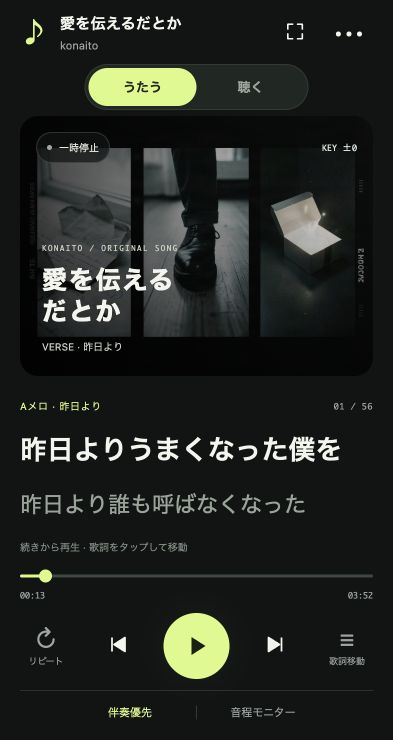
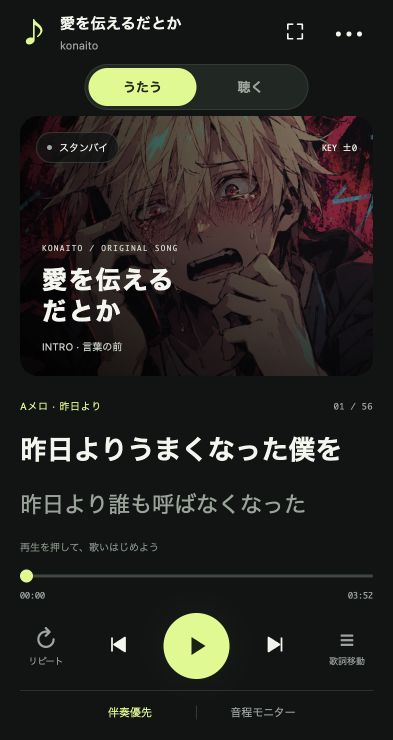
fix: 正式なジャケット画像へ差し替え

diff --git a/index.html b/index.html
@@ -13,10 +13,10 @@
       content="愛を伝えるだとか — konaito / one-song karaoke and music player"
     />
     <link rel="manifest" href="./manifest.webmanifest" />
-    <link rel="icon" href="./cover.jpeg" type="image/jpeg" />
+    <link rel="icon" href="./cover.png" type="image/png" />
     <meta name="mobile-web-app-capable" content="yes" />
     <meta name="apple-mobile-web-app-capable" content="yes" />
-    <link rel="stylesheet" href="./styles.css?v=19.1" />
+    <link rel="stylesheet" href="./styles.css?v=19.2" />
     <title>愛を伝えるだとか / KARAOKE</title>
   </head>
   <body>
@@ -69,7 +69,7 @@
         <div class="art-stage">
           <img
             class="cover-art"
-            src="./cover.jpeg"
+            src="./cover.png"
             alt="愛を伝えるだとか ジャケット"
           />
           <div class="art-shade"></div>
@@ -353,7 +353,7 @@
         >
           アプリを追加
         </button>
-        <p class="app-version">STAGE / v19.1</p>
+        <p class="app-version">STAGE / v19.2</p>
         <p class="drawer-status" id="wasm-status">
           <span class="status-dot"></span> WASM 音声処理 準備完了
         </p>
@@ -367,6 +367,6 @@
     </aside>
 
     <div class="toast" id="toast" role="status" aria-live="polite"></div>
-    <script type="module" src="./app.js?v=19.1"></script>
+    <script type="module" src="./app.js?v=19.2"></script>
   </body>
 </html>

diff --git a/sw.js b/sw.js
@@ -1,13 +1,13 @@
-const CACHE_NAME = "ai-karaoke-v19.1";
+const CACHE_NAME = "ai-karaoke-v19.2";
 const ASSETS = [
   "./",
   "./index.html",
-  "./styles.css?v=19.1",
-  "./app.js?v=19.1",
+  "./styles.css?v=19.2",
+  "./app.js?v=19.2",
   "./song-data.js",
   "./alignment.json",
   "./manifest.webmanifest",
-  "./cover.jpeg",
+  "./cover.png",
   "./dsp.wasm",
   "./audio/track.mp3"
 ];

diff --git a/app.js b/app.js
@@ -575,7 +575,7 @@ function setupMediaSession() {
     title: SONG.title,
     artist: SONG.artist,
     album: "konaito",
-    artwork: [{ src: "./cover.jpeg", sizes: "1024x1024", type: "image/jpeg" }],
+    artwork: [{ src: "./cover.png", sizes: "1254x1254", type: "image/png" }],
   });
   const handlers = {
     play: () => { if (!isPlaying) void togglePlayback(); },
